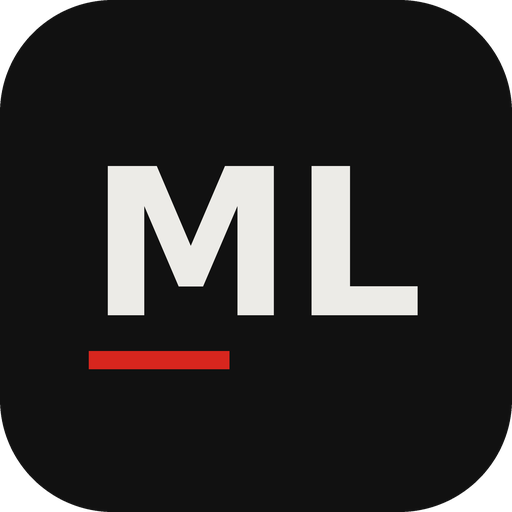
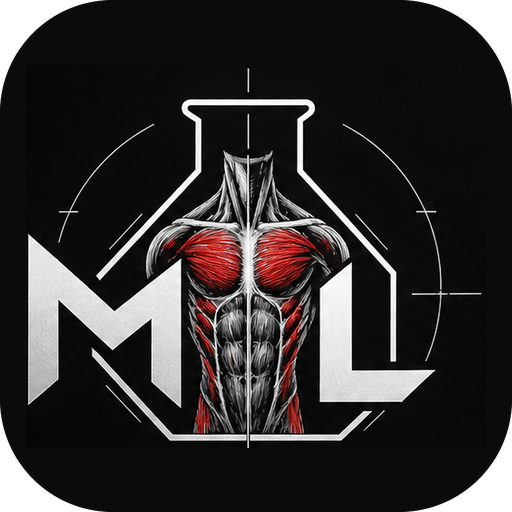
Apply MUSCLE LAB brand guidelines: black/silver with red only on muscles
- Brand palette is now the default: #0B0B0B background, #E6E6E6 silver
  text and UI accents, #B91C1C reserved for the muscle being looked at
  (selection, primary movers, specimen label); the light lab look stays
  as the 日間 alternative
- Grey-white specimen; in movement protocols uninvolved muscles dim so
  red primaries and silver secondaries stand out
- Official ML logo: transparent lockups on the entrance screen (dark and
  light variants), theme-tinted ML mark in the header, ANATOMY × FITNESS
  tagline, Michroma wordmark, new flask-emblem app icons and favicon

Claude-Session: https://claude.ai/code/session_01Umjm6WGsXbcedA7s4of1X3

diff --git a/index.html b/index.html
@@ -5,8 +5,7 @@
 <meta name="viewport" content="width=device-width, initial-scale=1.0">
 <title>MUSCLE LAB｜人體肌肉 3D 研究室</title>
 <meta name="description" content="333 條肌肉的 3D 解剖、14 個訓練動作示範、體型調整與 AI 教練問答。">
-<meta name="theme-color" content="#ECEBE7" media="(prefers-color-scheme: light)">
-<meta name="theme-color" content="#0A0A0B" media="(prefers-color-scheme: dark)">
+<meta name="theme-color" content="#0B0B0B" id="themeColorMeta">
 <link rel="manifest" href="manifest.webmanifest">
 <link rel="icon" type="image/png" sizes="32x32" href="icons/favicon-32.png">
 <link rel="apple-touch-icon" href="icons/apple-touch-icon.png">
@@ -16,16 +15,51 @@
 <meta name="apple-mobile-web-app-status-bar-style" content="black">
 <link rel="preconnect" href="https://fonts.googleapis.com">
 <link rel="preconnect" href="https://fonts.gstatic.com" crossorigin>
-<link href="https://fonts.googleapis.com/css2?family=Inter:wght@400;500;600;700;800&family=Inter+Tight:wght@500;600;700;800&family=JetBrains+Mono:wght@400;500&family=Noto+Sans+TC:wght@400;500;700&display=swap" rel="stylesheet">
+<link href="https://fonts.googleapis.com/css2?family=Inter:wght@400;500;600;700;800&family=Inter+Tight:wght@500;600;700;800&family=Michroma&family=JetBrains+Mono:wght@400;500&family=Noto+Sans+TC:wght@400;500;700&display=swap" rel="stylesheet">
 <script src="vendor/three.min.js"></script>
 
 <script>
   /* 先決定日／夜配色，避免載入時閃一下 */
-  try{ document.documentElement.dataset.theme = localStorage.getItem('muscle-theme') || 'light'; }catch(e){ document.documentElement.dataset.theme = 'light'; }
+  try{ document.documentElement.dataset.theme = localStorage.getItem('muscle-theme') || 'dark'; }catch(e){ document.documentElement.dataset.theme = 'dark'; }
 </script>
 <style>
-  /* 日間（預設）：實驗室淺色 */
+  /* MUSCLE LAB 品牌色（預設）：黑底 #0B0B0B、銀白 #E6E6E6、深紅 #B91C1C 只標示正在看的肌肉 */
   :root{
+    --void:#0B0B0B;
+    --glass:rgba(20,20,20,.86);
+    --panel-solid:#141414;
+    --line:rgba(255,255,255,.08);
+    --line-hi:rgba(255,255,255,.18);
+    --text:#E6E6E6;
+    --text-soft:#9A9A9A;
+    --text-faint:#666666;
+    --ice:#E6E6E6;
+    --on-ice:#0B0B0B;
+    --ice-dim:rgba(255,255,255,.07);
+    --scan:#B91C1C;
+    --amber:#8C8C8C;
+    --amber-dim:rgba(255,255,255,.05);
+    --second:#D9D9D9;
+    --sel:rgba(185,28,28,.4);
+    --grid:rgba(255,255,255,.035);
+    --chamber-bg:linear-gradient(var(--grid) 1px, transparent 1px) 0 0/40px 40px, linear-gradient(90deg, var(--grid) 1px, transparent 1px) 0 0/40px 40px, radial-gradient(65% 60% at 50% 46%, #1A1A1A 0%, #0F0F0F 60%, #0B0B0B 100%);
+    --chamber-vignette:inset 0 0 160px rgba(0,0,0,.6);
+    --tip-bg:rgba(18,18,18,.96);
+    --overlay-bg:rgba(11,11,11,.9);
+    --shadow:0 24px 60px -24px rgba(0,0,0,.9);
+    --seg-bg:rgba(255,255,255,.04);
+    --seg-active:rgba(255,255,255,.10);
+    --hover:rgba(255,255,255,.045);
+    --input-bg:rgba(255,255,255,.04);
+    --logo-blend:screen;
+    --sans:'Inter','Noto Sans TC',system-ui,sans-serif;
+    --display:'Inter Tight','Inter','Noto Sans TC',system-ui,sans-serif;
+    --brand:'Michroma','Inter Tight',system-ui,sans-serif;
+    --mono:'JetBrains Mono','Noto Sans TC',ui-monospace,monospace;
+    --ease:cubic-bezier(.2,.7,.2,1);
+  }
+  /* 日間：淺色實驗室 */
+  :root[data-theme="light"]{
     --void:#ECEBE7;
     --glass:rgba(250,249,246,.9);
     --panel-solid:#F7F6F3;
@@ -34,13 +68,14 @@
     --text:#111111;
     --text-soft:#4B4A46;
     --text-faint:#8A8882;
-    --ice:#D7261E;
-    --ice-dim:rgba(215,38,30,.08);
-    --scan:#D7261E;
-    --amber:#B5791C;
-    --amber-dim:rgba(181,121,28,.10);
+    --ice:#111111;
+    --on-ice:#FFFFFF;
+    --ice-dim:rgba(17,17,17,.06);
+    --scan:#B91C1C;
+    --amber:#8A8882;
+    --amber-dim:rgba(17,17,17,.05);
     --second:#4A4744;
-    --sel:rgba(215,38,30,.18);
+    --sel:rgba(185,28,28,.18);
     --grid:rgba(17,17,17,.05);
     --chamber-bg:linear-gradient(var(--grid) 1px, transparent 1px) 0 0/40px 40px, linear-gradient(90deg, var(--grid) 1px, transparent 1px) 0 0/40px 40px, radial-gradient(70% 62% at 50% 46%, #FBFBF9 0%, #EFEEEA 62%, #E4E2DD 100%);
     --chamber-vignette:inset 0 0 140px rgba(0,0,0,.05);
@@ -51,42 +86,7 @@
     --seg-active:rgba(17,17,17,.09);
     --hover:rgba(17,17,17,.04);
     --input-bg:#FFFFFF;
-    --mark-bg:#111111;
-    --mark-fg:#FFFFFF;
-    --sans:'Inter','Noto Sans TC',system-ui,sans-serif;
-    --display:'Inter Tight','Inter','Noto Sans TC',system-ui,sans-serif;
-    --mono:'JetBrains Mono','Noto Sans TC',ui-monospace,monospace;
-    --ease:cubic-bezier(.2,.7,.2,1);
-  }
-  /* 夜間：原本的深色 */
-  :root[data-theme="dark"]{
-    --void:#0A0A0B;
-    --glass:rgba(19,19,21,.94);
-    --panel-solid:rgba(11,16,23,.96);
-    --line:rgba(255,255,255,.08);
-    --line-hi:rgba(255,255,255,.18);
-    --text:#F3F3F4;
-    --text-soft:#9B9B9F;
-    --text-faint:#67676B;
-    --ice:#E5451B;
-    --ice-dim:rgba(229,69,27,.14);
-    --scan:#E5451B;
-    --amber:#F0B45C;
-    --amber-dim:rgba(240,180,92,.12);
-    --second:#F2A13A;
-    --sel:rgba(95,227,239,.28);
-    --grid:transparent;
-    --chamber-bg:radial-gradient(70% 62% at 50% 46%, #15222F 0%, #0A1017 58%, #06090E 100%);
-    --chamber-vignette:inset 0 0 160px rgba(0,0,0,.55);
-    --tip-bg:rgba(7,10,15,.94);
-    --overlay-bg:rgba(7,10,15,.92);
-    --shadow:0 24px 60px -24px rgba(0,0,0,.8);
-    --seg-bg:rgba(255,255,255,.04);
-    --seg-active:rgba(142,214,234,.17);
-    --hover:rgba(255,255,255,.035);
-    --input-bg:rgba(0,0,0,.28);
-    --mark-bg:#E5451B;
-    --mark-fg:#FFFFFF;
+    --logo-blend:multiply;
   }
   *{box-sizing:border-box; margin:0; padding:0;}
   html{background:var(--void);}
@@ -95,16 +95,16 @@
     background:var(--void); min-height:100vh; -webkit-font-smoothing:antialiased;
   }
   button{font-family:var(--sans); color:inherit;}
-  :focus-visible{outline:2px solid var(--scan); outline-offset:2px;}
+  :focus-visible{outline:2px solid var(--text); outline-offset:2px;}
   ::selection{background:var(--sel);}
 
   /* ---------- stage (mobile-first: stacked) ---------- */
   .stage{display:flex; flex-direction:column; min-height:100vh;}
   .topbar{order:0; display:flex; align-items:center; justify-content:space-between; gap:16px; padding:16px 16px 12px;}
   .brand{display:flex; align-items:center; gap:12px; flex-wrap:wrap;}
-  .brand-mark{display:inline-flex; align-items:center; justify-content:center; width:30px; height:30px; border-radius:9px; background:var(--mark-bg); color:var(--mark-fg); font:700 11.5px var(--display); letter-spacing:.04em; flex-shrink:0;}
-  .brand h1{font:700 19px var(--display); letter-spacing:.08em; line-height:1.2;}
-  .brand-sub{font-size:12.5px; color:var(--text-faint);}
+  .brand-mark{display:inline-block; width:46px; height:25px; flex-shrink:0; background:var(--text); -webkit-mask:url(brand/ml-mark.png) center/contain no-repeat; mask:url(brand/ml-mark.png) center/contain no-repeat;}
+  .brand h1{font:400 17px var(--brand); letter-spacing:.12em; line-height:1.2;}
+  .brand-sub{font:400 10.5px var(--mono); letter-spacing:.22em; color:var(--text-faint);}
   .topbar-right{display:flex; align-items:center; gap:12px; flex-shrink:0;}
   #installBtn{white-space:nowrap;}
   .install-hint{position:fixed; inset:0; z-index:1100; display:flex; align-items:flex-end; justify-content:center; padding:16px; background:rgba(0,0,0,.55);}
@@ -117,7 +117,7 @@
   .progress-badge{font:400 12px var(--mono); color:var(--text-soft); font-variant-numeric:tabular-nums; text-align:right; white-space:nowrap;}
   .progress-badge::after{
     content:""; display:block; height:2px; margin-top:6px; background:var(--line);
-    background-image:linear-gradient(var(--scan), var(--scan)); background-repeat:no-repeat;
+    background-image:linear-gradient(var(--text), var(--text)); background-repeat:no-repeat;
     background-size:calc(var(--p, 0) * 1%) 100%; transition:background-size .5s var(--ease);
   }
 
@@ -167,7 +167,7 @@
     background:var(--overlay-bg); transition:opacity .6s ease;
   }
   .model-loading.done{opacity:0; pointer-events:none;}
-  .spin{width:18px; height:18px; flex-shrink:0; border:2px solid var(--line-hi); border-top-color:var(--scan); border-radius:50%; animation:spin .8s linear infinite;}
+  .spin{width:18px; height:18px; flex-shrink:0; border:2px solid var(--line-hi); border-top-color:var(--text); border-radius:50%; animation:spin .8s linear infinite;}
   @keyframes spin{to{transform:rotate(360deg);}}
 
   /* ---------- glass surfaces ---------- */
@@ -214,7 +214,7 @@
   .mode-switch button{position:relative; background:none; border:none; padding:11px 14px 13px; cursor:pointer; font-size:13.5px; font-weight:500; color:var(--text-faint); transition:color .15s ease;}
   .mode-switch button:hover{color:var(--text-soft);}
   .mode-switch button.active{color:var(--text);}
-  .mode-switch button.active::after{content:""; position:absolute; left:14px; right:14px; bottom:-1px; height:2px; background:var(--scan);}
+  .mode-switch button.active::after{content:""; position:absolute; left:14px; right:14px; bottom:-1px; height:2px; background:var(--text);}
   .console[data-view="chat"] .muscle-info{display:none;}
   .console:not([data-view="chat"]) .chat-area{display:none;}
 
@@ -224,7 +224,7 @@
   .placeholder{color:var(--text-soft); font-size:14.5px; line-height:1.8;}
   .mi-region{font-size:12px; color:var(--text-faint);}
   .muscle-info h2{font-size:30px; line-height:1.2; font-weight:600; margin:4px 0 2px; letter-spacing:.01em;}
-  .en{display:block; font:400 12.5px var(--mono); color:var(--ice); margin-bottom:16px;}
+  .en{display:block; font:400 12.5px var(--mono); color:var(--text-soft); margin-bottom:16px;}
   .lock{display:flex; gap:11px; align-items:flex-start; padding:10px 13px; margin-bottom:16px; background:var(--ice-dim); border-left:2px solid var(--scan); font-size:14px;}
   .lock b{font-weight:600;}
   .lock small{display:block; font:400 11.5px var(--mono); color:var(--ice);}
@@ -244,13 +244,13 @@
   .tip{margin-bottom:22px; padding-left:14px; border-left:2px solid var(--line-hi); font-size:14px; line-height:1.8; color:var(--text);}
   .ask-row{display:flex; flex-wrap:wrap; gap:6px;}
   .ask-row button{font-size:13px; font-weight:500; background:transparent; border:1px solid var(--line-hi); border-radius:6px; padding:8px 13px; cursor:pointer; color:var(--text); transition:border-color .15s ease, color .15s ease;}
-  .ask-row button:hover{border-color:var(--scan); color:var(--scan);}
+  .ask-row button:hover{border-color:var(--text); color:var(--text);}
   .ai-answer{display:none; margin-top:12px; padding:12px 14px; font-size:14px; line-height:1.75; background:var(--hover); border:1px solid var(--line); border-radius:8px;}
   .ai-answer.active{display:block;}
   .ai-answer p{margin-bottom:6px;} .ai-answer p:last-child{margin-bottom:0;} .ai-answer ul{margin:4px 0 8px 18px;}
   .ai-loading{display:flex; align-items:center; gap:8px; color:var(--text-soft);}
   .dots{display:inline-flex; gap:3px;}
-  .dots span{width:4px; height:4px; border-radius:50%; background:var(--scan); animation:blink 1.2s infinite ease-in-out;}
+  .dots span{width:4px; height:4px; border-radius:50%; background:var(--text); animation:blink 1.2s infinite ease-in-out;}
   .dots span:nth-child(2){animation-delay:.2s;} .dots span:nth-child(3){animation-delay:.4s;}
   .link-btn{margin-top:10px; background:none; border:none; padding:0; cursor:pointer; font-size:13px; color:var(--ice); text-decoration:underline; text-underline-offset:3px;}
   .fact p{font-size:14px; line-height:1.75; color:var(--text-soft); margin-bottom:6px;}
@@ -261,12 +261,12 @@
   .quiz-prompt em{font-style:normal; color:var(--ice);}
   .quiz-sub{font-size:14px; color:var(--text-soft); margin-bottom:16px;}
   .hint-btn{display:block; width:100%; text-align:left; font-size:13.5px; line-height:1.6; background:transparent; border:1px dashed var(--line-hi); border-radius:8px; color:var(--text-soft); padding:10px 13px; margin-bottom:14px; cursor:pointer;}
-  .hint-btn:hover{border-color:var(--scan); color:var(--text);}
+  .hint-btn:hover{border-color:var(--text); color:var(--text);}
   .quiz-score-line{font:400 12px var(--mono); color:var(--text-soft); margin-bottom:12px; font-variant-numeric:tabular-nums;}
   .quiz-feedback{display:flex; align-items:center; justify-content:space-between; gap:10px; flex-wrap:wrap; padding:11px 14px; font-size:14px; border-radius:8px;}
   .quiz-feedback.correct{background:var(--ice-dim); border-left:2px solid var(--scan);}
   .quiz-feedback.wrong{background:var(--amber-dim); border-left:2px solid var(--amber);}
-  .quiz-next-btn,.quiz-restart-btn{font-size:13.5px; font-weight:600; color:#fff; background:var(--ice); border:none; border-radius:8px; padding:9px 18px; cursor:pointer; font-weight:600;}
+  .quiz-next-btn,.quiz-restart-btn{font-size:13.5px; font-weight:600; color:var(--on-ice); background:var(--ice); border:none; border-radius:8px; padding:9px 18px; cursor:pointer; font-weight:600;}
   .quiz-result{text-align:center; padding:14px 0;}
   .big-score{font-size:56px; font-weight:600; line-height:1.1; color:var(--ice); font-variant-numeric:tabular-nums; margin-bottom:6px;}
   .quiz-result p{color:var(--text-soft); font-size:14.5px; margin-bottom:20px;}
@@ -283,17 +283,17 @@
   .msg.assistant .bubble{background:var(--hover); border:1px solid var(--line);}
   .bubble p{margin-bottom:6px;} .bubble p:last-child{margin-bottom:0;} .bubble ul{margin:4px 0 8px 18px;} .bubble li{margin-bottom:3px;}
   .typing{display:inline-flex; gap:4px; padding:4px 0;}
-  .typing span{width:5px; height:5px; border-radius:50%; background:var(--scan); animation:blink 1.2s infinite ease-in-out;}
+  .typing span{width:5px; height:5px; border-radius:50%; background:var(--text); animation:blink 1.2s infinite ease-in-out;}
   .typing span:nth-child(2){animation-delay:.2s;} .typing span:nth-child(3){animation-delay:.4s;}
   @keyframes blink{0%,80%,100%{opacity:.2;} 40%{opacity:1;}}
   .quick-asks{padding:0 24px 12px; display:flex; flex-wrap:wrap; gap:6px;}
   .quick-asks button{font-size:12.5px; font-weight:500; color:var(--text-soft); background:transparent; border:1px solid var(--line-hi); border-radius:6px; padding:7px 12px; cursor:pointer;}
-  .quick-asks button:hover{border-color:var(--scan); color:var(--scan);}
+  .quick-asks button:hover{border-color:var(--text); color:var(--text);}
   .chat-input-row{display:flex; gap:8px; align-items:flex-end; padding:14px 24px 18px; border-top:1px solid var(--line);}
   .chat-input-row textarea{flex:1; resize:none; height:46px; max-height:120px; padding:12px 14px; font:400 14px var(--sans); color:var(--text); background:var(--input-bg); border:1px solid var(--line-hi); border-radius:8px;}
   .chat-input-row textarea::placeholder{color:var(--text-faint);}
-  .chat-input-row textarea:focus{outline:none; border-color:var(--scan);}
-  .chat-input-row button{height:46px; padding:0 20px; font-size:14px; font-weight:600; color:#fff; background:var(--ice); border:none; border-radius:8px; cursor:pointer;}
+  .chat-input-row textarea:focus{outline:none; border-color:var(--text);}
+  .chat-input-row button{height:46px; padding:0 20px; font-size:14px; font-weight:600; color:var(--on-ice); background:var(--ice); border:none; border-radius:8px; cursor:pointer;}
   .chat-input-row button:disabled{opacity:.4; cursor:default;}
 
   .hints{list-style:none; margin-top:14px;}
@@ -321,10 +321,12 @@
   .li-main{display:grid; grid-template-columns:1fr minmax(240px, 280px); align-items:end; gap:24px; padding:28px 0;}
   .li-title{align-self:center; pointer-events:auto; max-width:40%;}
   .li-kicker{display:flex; align-items:center; gap:10px; font:500 13px var(--mono); letter-spacing:.32em; color:var(--text);}
-  .li-kicker::before{content:""; width:28px; height:2px; background:var(--scan);}
+  .li-kicker::before{content:""; width:28px; height:2px; background:var(--text);}
   .li-title h2{font:800 clamp(56px, 7.4vw, 124px)/.88 var(--display); letter-spacing:-.025em; margin:14px 0 18px; color:var(--text);}
   .li-title h2 span{display:block;}
-  .li-title h2 .red{color:var(--scan);}
+  .li-logo{margin:20px 0 22px !important; line-height:0;}
+  .li-logo img{width:min(400px, 32vw); height:auto;}
+  .li-logo-light{display:none;} :root[data-theme="light"] .li-logo-dark{display:none;} :root[data-theme="light"] .li-logo-light{display:inline;}
   .li-title p{font-size:15px; line-height:1.8; color:var(--text-soft); max-width:380px;}
   .li-card{pointer-events:auto; border:1px solid var(--text); background:var(--panel-solid); font:400 11px var(--mono); letter-spacing:.06em;}
   .li-card header{background:var(--text); color:var(--void); padding:7px 12px; font-weight:500; letter-spacing:.18em; display:flex; justify-content:space-between;}
@@ -335,7 +337,7 @@
   .li-card .dot{display:inline-block; width:7px; height:7px; border-radius:50%; background:var(--scan); margin-right:6px; animation:blink 1.6s infinite ease-in-out;}
   .li-bottom{pointer-events:auto; padding-top:14px; border-top:1px solid var(--line-hi);}
   .li-enter{display:inline-flex; align-items:center; gap:14px; font:600 14px var(--display); letter-spacing:.22em; padding:16px 26px; background:var(--text); color:var(--void); border:none; cursor:pointer; transition:background .2s ease;}
-  .li-enter:hover:not(:disabled){background:var(--scan); color:#fff;}
+  .li-enter:hover:not(:disabled){background:var(--text-soft); color:var(--void);}
   .li-enter:disabled{opacity:.55; cursor:progress;}
   .li-enter .arr{font-family:var(--sans); font-size:18px;}
   .li-scan{position:fixed; left:0; right:0; top:0; height:2px; background:var(--scan); box-shadow:0 0 18px 2px var(--scan); z-index:31; opacity:0; pointer-events:none;}
@@ -345,7 +347,7 @@
     .lab-intro{padding:18px 18px 22px;}
     .li-main{grid-template-columns:1fr; align-items:start; padding:20px 0;}
     .li-title{max-width:none; background:var(--overlay-bg); margin:0 -18px; padding:18px; border-top:1px solid var(--line-hi); border-bottom:1px solid var(--line-hi);}
-    .li-title h2{font-size:clamp(54px, 17vw, 88px);}
+    .li-logo img{width:min(230px, 62vw);}
     .li-title p{font-size:13.5px; max-width:240px;}
     .li-card{display:none;}
     .li-top span:nth-child(2), .li-bottom .li-fig{display:none;}
@@ -355,7 +357,8 @@
   .theme-btn{font-family:var(--mono); letter-spacing:.06em;}
   .brand h1{white-space:nowrap;}
   @media (max-width:520px){
-    .brand h1{font-size:16px; letter-spacing:.06em;}
+    .brand h1{font-size:14px; letter-spacing:.08em;}
+    .brand-sub{display:none;}
     .topbar-right{gap:8px;}
     .topbar-right .ghost-btn{padding:5px 9px;}
     .pb-label, .tb-label{display:none;}
@@ -372,13 +375,13 @@
   .ex-grid{display:grid; grid-template-columns:repeat(auto-fill, minmax(112px, 1fr)); gap:6px; margin-bottom:22px;}
   .ex-grid button{text-align:left; font-size:13.5px; font-weight:500; line-height:1.35; padding:9px 11px; background:transparent; border:1px solid var(--line-hi); border-radius:8px; color:var(--text); cursor:pointer; transition:border-color .15s ease, background .15s ease;}
   .ex-grid button small{display:block; font-size:11px; font-weight:400; color:var(--text-faint); margin-top:2px;}
-  .ex-grid button:hover{border-color:var(--scan);}
-  .ex-grid button.active{border-color:var(--scan); background:var(--ice-dim);}
+  .ex-grid button:hover{border-color:var(--text);}
+  .ex-grid button.active{border-color:var(--text); background:var(--ice-dim);}
   .ex-head{display:flex; align-items:baseline; gap:10px; flex-wrap:wrap; padding-top:18px; border-top:1px solid var(--line);}
   .ex-head h3{font-size:22px; font-weight:600; line-height:1.3;}
   .ex-head .en{margin:0;}
   .ex-ctrl{display:flex; align-items:center; gap:12px; margin:10px 0 18px; font-size:12px; color:var(--text-faint);}
-  .ex-ctrl button{flex-shrink:0; font-size:13.5px; font-weight:600; color:#fff; background:var(--ice); border:none; border-radius:8px; padding:8px 18px; cursor:pointer;}
+  .ex-ctrl button{flex-shrink:0; font-size:13.5px; font-weight:600; color:var(--on-ice); background:var(--ice); border:none; border-radius:8px; padding:8px 18px; cursor:pointer;}
   .ex-note{font-size:12.5px; color:var(--text-faint); margin:8px 0 18px;}
   .chip-row{display:flex; flex-wrap:wrap; gap:6px;}
   .chip-row button{font-size:13px; padding:5px 11px; background:transparent; border:1px solid var(--line-hi); border-radius:6px; color:var(--text); cursor:pointer;}
@@ -395,15 +398,15 @@
   .sp-head #shapeReset{color:var(--ice); text-decoration:underline; text-underline-offset:3px;}
   .sp-presets{display:flex; flex-wrap:wrap; gap:6px; margin-bottom:12px;}
   .sp-presets button{font-size:12.5px; padding:6px 12px; background:transparent; border:1px solid var(--line-hi); border-radius:6px; cursor:pointer;}
-  .sp-presets button:hover, .sp-presets button.active{border-color:var(--scan); background:var(--ice-dim);}
+  .sp-presets button:hover, .sp-presets button.active{border-color:var(--text); background:var(--ice-dim);}
   .sp-row{display:grid; grid-template-columns:76px 1fr 58px; align-items:center; gap:10px; font-size:13px; color:var(--text-soft); padding:4px 0;}
-  .sp-row input{width:100%; accent-color:var(--scan);}
+  .sp-row input{width:100%; accent-color:var(--text);}
   .sp-row output{font-variant-numeric:tabular-nums; color:var(--text); text-align:right; font-size:12.5px;}
   .sp-note{font-size:11.5px; color:var(--text-faint); margin-top:8px; line-height:1.6;}
   .fp-actions{display:flex; flex-wrap:wrap; gap:8px; margin-top:12px;}
   .fp-btn{display:inline-flex; align-items:center; font-size:13px; font-weight:500; padding:8px 14px; border:1px solid var(--line-hi); border-radius:8px; background:transparent; color:var(--text); cursor:pointer;}
-  .fp-btn:hover{border-color:var(--scan);}
-  .fp-btn.primary{background:var(--ice); border-color:var(--ice); color:#fff; font-weight:600;}
+  .fp-btn:hover{border-color:var(--text);}
+  .fp-btn.primary{background:var(--ice); border-color:var(--ice); color:var(--on-ice); font-weight:600;}
   .fp-intro{font-size:13px; color:var(--text-soft); line-height:1.7;}
   .fp-crop{display:flex; gap:16px; align-items:center; flex-wrap:wrap;}
   #faceCanvas{width:200px; height:200px; border-radius:12px; background:#000; touch-action:none; cursor:grab; flex-shrink:0;}
@@ -496,8 +499,8 @@ setTimeout(function(){
   <div class="li-main">
     <div class="li-title">
       <div class="li-kicker">WELCOME TO</div>
-      <h2><span>MUSCLE</span><span class="red">LAB.</span></h2>
-      <p>人體肌肉研究室。333 條肌肉的 3D 解剖圖鑑、14 項訓練實驗協定，從結構到動作，一層一層拆解。</p>
+      <h2 class="li-logo"><img src="brand/lockup-dark.png" class="li-logo-dark" alt="MUSCLE LAB — ANATOMY × FITNESS"><img src="brand/lockup-light.png" class="li-logo-light" alt="MUSCLE LAB — ANATOMY × FITNESS"></h2>
+      <p>認識肌肉 → 了解功能 → 找到對應動作 → 學習訓練。<br>333 條肌肉的 3D 解剖圖鑑，選一條肌肉，看它亮起來。</p>
     </div>
     <aside class="li-card" aria-label="標本資料">
       <header><span>SPECIMEN LABEL</span><span>ML-001</span></header>
@@ -529,7 +532,7 @@ setTimeout(function(){
   </div>
 
   <header class="topbar">
-    <div class="brand"><span class="brand-mark" aria-hidden="true">ML</span><h1>MUSCLE LAB</h1><span class="brand-sub">人體肌肉研究室</span></div>
+    <div class="brand"><span class="brand-mark" role="img" aria-label="ML"></span><h1>MUSCLE LAB</h1><span class="brand-sub">ANATOMY × FITNESS</span></div>
     <div class="topbar-right">
       <button class="ghost-btn theme-btn" id="themeBtn" aria-label="切換日間／夜間模式">夜間</button>
       <button class="ghost-btn" id="installBtn" title="安裝到桌面或主畫面" hidden>安裝 App</button>
@@ -1080,10 +1083,10 @@ const categoryLabels = { all:'全部', upper:'頭頸與上肢', core:'軀幹', l
 ========================================================= */
 /* 日／夜主題的 3D 配色：日間是白色石膏標本 + 紅色標示，夜間是原本的深灰 */
 const LAB_THEMES = {
-  light:{muscle:0xCFCAC2, tendon:0xF4F2EE, bone:0xE9E5DE, accent:0xD7261E, second:0x5A5753, ghost:0xF2F0EC, ghostMix:0.72, boneDim:0.94, fog:0xEDEBE7, exposure:1.0},
-  dark:{muscle:0x55565A, tendon:0xDBDCDE, bone:0xB9BBBE, accent:0xE5451B, second:0xF2A13A, ghost:0x2A2A2C, ghostMix:0.84, boneDim:0.5, fog:0x0A1017, exposure:0.92}
+  light:{muscle:0xCFCAC2, tendon:0xF4F2EE, bone:0xE9E5DE, accent:0xB91C1C, second:0x5A5753, ghost:0xF2F0EC, ghostMix:0.72, ghostMixEx:0.72, boneDim:0.94, fog:0xEDEBE7, exposure:1.0},
+  dark:{muscle:0xA9A7A3, tendon:0xDCDBD8, bone:0xC8C6C2, accent:0xC21F1F, second:0xF0F0F0, ghost:0x1E1E1E, ghostMix:0.5, ghostMixEx:0.8, boneDim:0.55, fog:0x0B0B0B, exposure:0.95}
 };
-let TH = LAB_THEMES[document.documentElement.dataset.theme === 'dark' ? 'dark' : 'light'];
+let TH = LAB_THEMES[document.documentElement.dataset.theme === 'light' ? 'light' : 'dark'];
 const chamberEl = document.getElementById('chamber');
 const canvas = document.getElementById('canvas3d');
 const scene = new THREE.Scene();
@@ -1682,7 +1685,7 @@ function paintExercise(ex){
     let emis = 0;
     if(role === 'p'){ if(!isTendon) _hlColor.lerp(P, 0.9); m.emissive.copy(P); emis = 0.2; glowParts.push(p); }
     else if(role === 's'){ if(!isTendon) _hlColor.lerp(Sc, 0.92); m.emissive.copy(Sc); emis = 0.12; glowParts.push(p); }
-    else { if(ex) _hlColor.lerp(_ghost, TH.ghostMix); m.emissive.setHex(0x000000); }
+    else { if(ex) _hlColor.lerp(_ghost, TH.ghostMixEx); m.emissive.setHex(0x000000); }
     p._baseEmissive = emis; m.color.copy(_hlColor); m.emissiveIntensity = emis;
   });
   if(boneMesh) boneMesh.material.color.setHex(BONE_COLOR).multiplyScalar(ex ? TH.boneDim : 1);
@@ -1963,6 +1966,7 @@ function clearFace(){
 function setLabTheme(name){
   TH = LAB_THEMES[name];
   document.documentElement.dataset.theme = name;
+  document.getElementById('themeColorMeta').setAttribute('content', name === 'light' ? '#ECEBE7' : '#0B0B0B');
   try{ localStorage.setItem('muscle-theme', name); }catch(e){}
   MUSCLE_RED = TH.muscle; TENDON_COLOR = TH.tendon; BONE_COLOR = TH.bone;
   renderer.toneMappingExposure = TH.exposure;

diff --git a/sw.js b/sw.js
@@ -1,6 +1,6 @@
 /* MUSCLE LAB：離線快取。網頁本身每次先上網拿最新版（沒網路才用快取），其他檔案先用快取、背景再更新。 */
-const VERSION = 'muscle-v3';
-const CORE = ['./', './vendor/three.min.js', './manifest.webmanifest', './icons/icon-192.png', './icons/icon-512.png', './icons/apple-touch-icon.png', './icons/favicon-32.png'];
+const VERSION = 'muscle-v4';
+const CORE = ['./', './vendor/three.min.js', './manifest.webmanifest', './icons/icon-192.png', './icons/icon-512.png', './icons/apple-touch-icon.png', './icons/favicon-32.png', './brand/ml-mark.png', './brand/lockup-dark.png', './brand/lockup-light.png'];
 
 self.addEventListener('install', event => {
   event.waitUntil((async () => {
